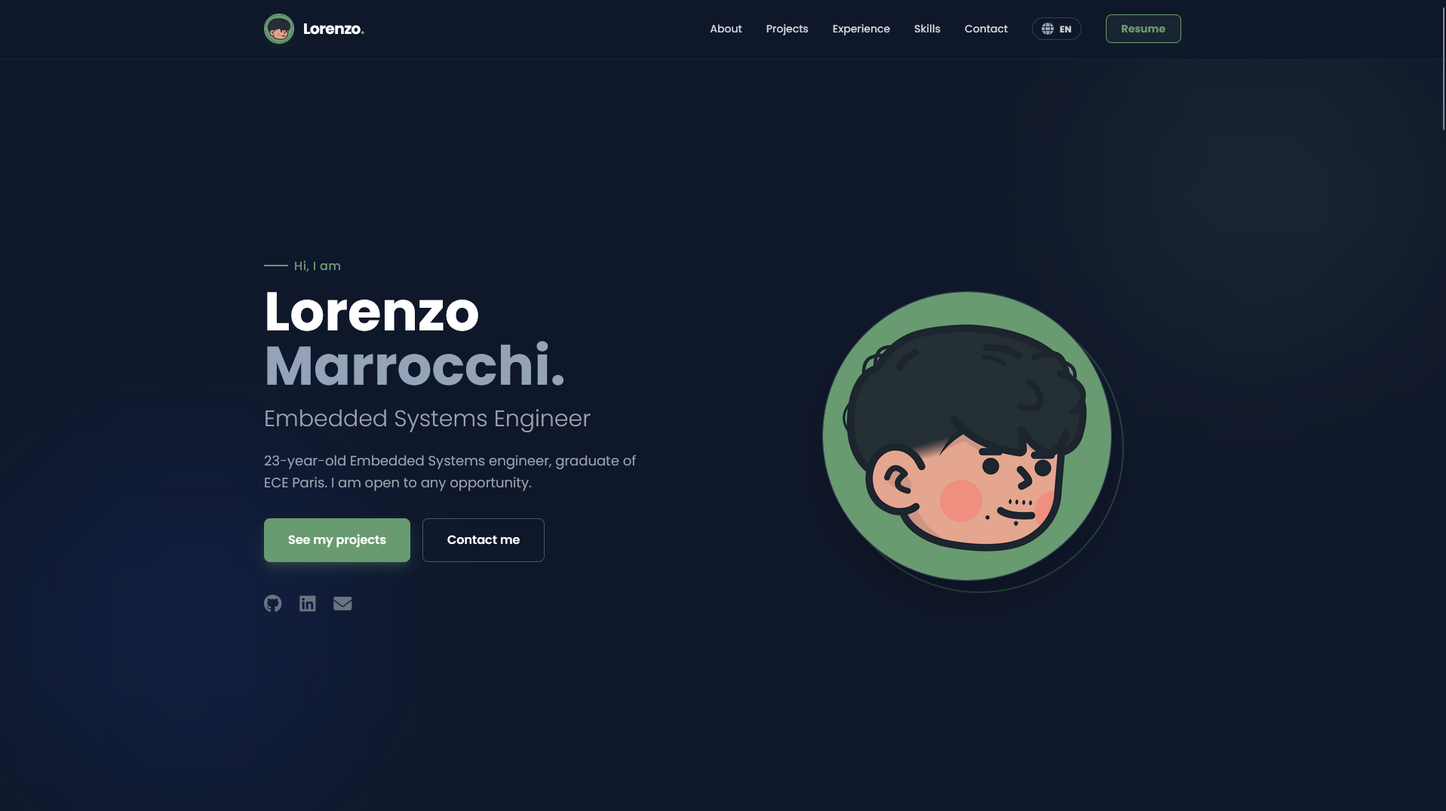
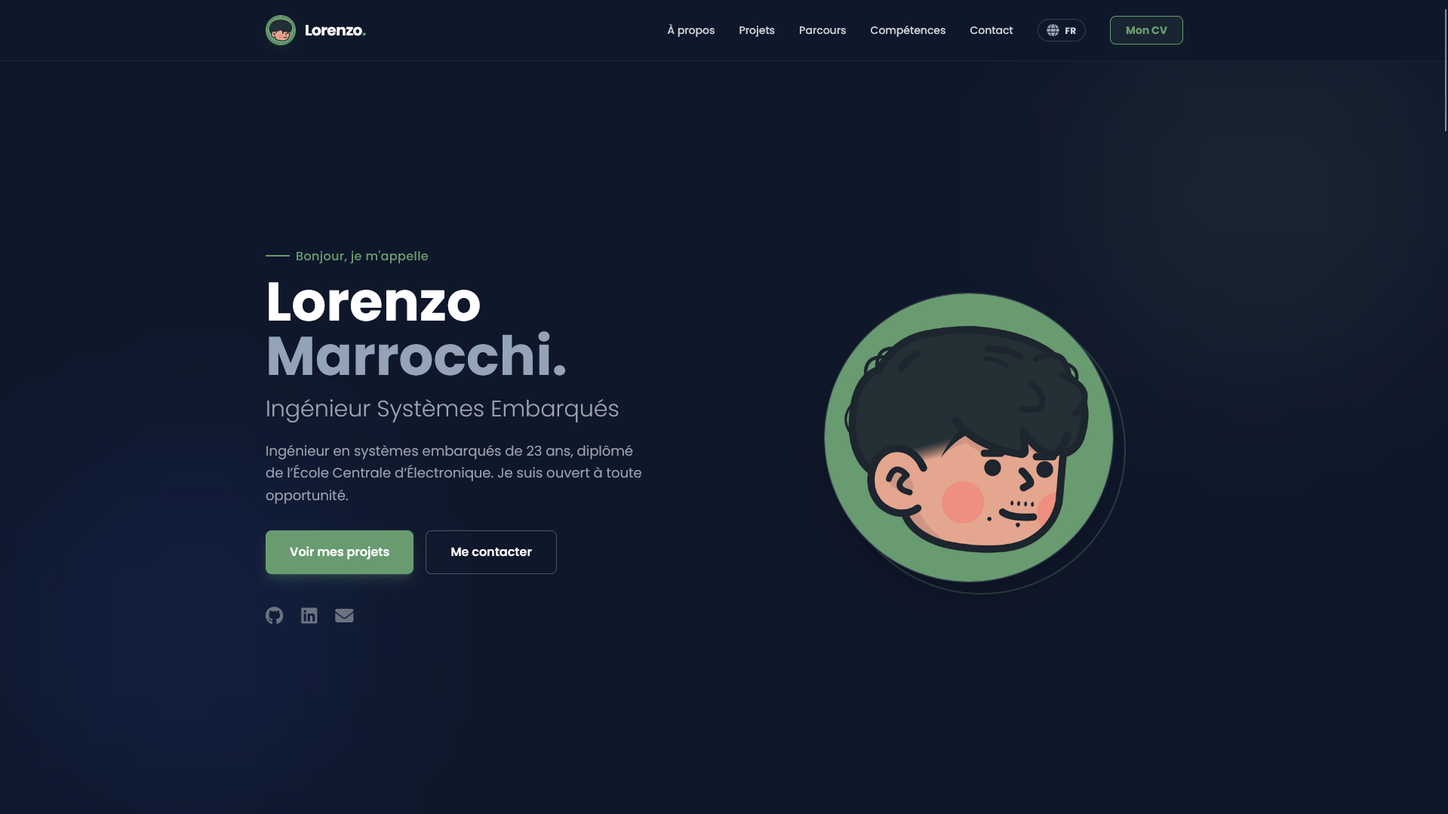
projects_update

diff --git a/index.html b/index.html
@@ -270,7 +270,7 @@
                         Ingénieur Systèmes Embarqués
                     </h2>
                     <p class="text-gray-400 max-w-lg mb-8 leading-relaxed text-lg" data-i18n="hero_desc">
-                        Ingénieur en systèmes embarqués de 23 ans, diplômé de l’École Centrale d’Électronique. Je suis ouvert à toute opportunité.
+                        Ingénieur en systèmes embarqués de 23 ans, diplômé de l’École Centrale d’Électronique à Paris. Je suis ouvert à toute opportunité.
                     </p>
                     
                     <div class="flex flex-wrap gap-4">
@@ -323,11 +323,12 @@
                         <div class="absolute inset-0 flex items-center justify-center">
                             <i class="fas fa-water text-5xl text-gray-600 group-hover:text-primary transition-colors"></i>
                         </div>
-                        <img src="./assets/projects/Bluexplorer.png" class="absolute inset-0 w-full h-full object-cover opacity-90 group-hover:scale-110 transition-transform duration-500" onerror="this.style.display='none'">
+                        <img src="./assets/projects/bluexplorer_cover.png" class="absolute inset-0 w-full h-full object-cover opacity-90 group-hover:scale-110 transition-transform duration-500" onerror="this.style.display='none'">
                     </div>
                     <div class="p-8 flex-grow flex flex-col">
                         <div class="flex justify-between items-start mb-4">
                             <h3 class="text-xl font-bold text-white group-hover:text-primary transition-colors">Bluexplorer</h3>
+                            <span class="text-xs border border-primary text-primary px-2 py-1 rounded">PFE</span>
                         </div>
                         <p class="text-gray-400 text-sm mb-6 flex-grow leading-relaxed" data-i18n="proj_blue_desc">Prototype de drone sous-marin pour l'exploration. Conception mécanique et électronique.</p>
                         <div class="flex flex-wrap gap-2 mt-auto">
@@ -361,11 +362,12 @@
 
                 <!-- Project: Robot Arm -->
                 <div class="project-card bg-card rounded-2xl overflow-hidden border border-gray-700 group flex flex-col relative">
-                    <a href="#" class="project-link-overlay"></a> 
+                    <a href="https://github.com/MrZouu/LeRobot-HandControl" target="_blank" class="project-link-overlay"></a>
                     <div class="h-56 relative overflow-hidden bg-slate-800">
-                         <div class="absolute inset-0 flex items-center justify-center">
-                            <i class="fas fa-robot text-5xl text-gray-600 group-hover:text-primary transition-colors"></i>
+                        <div class="absolute inset-0 flex items-center justify-center">
+                             <i class="fas fa-sign-language text-5xl text-gray-600 group-hover:text-primary transition-colors"></i>
                         </div>
+                        <img src="./assets/projects/hand_top.png" class="absolute inset-0 w-full h-full object-cover opacity-90 group-hover:scale-110 transition-transform duration-500" onerror="this.style.display='none'">
                     </div>
                     <div class="p-8 flex-grow flex flex-col">
                         <div class="flex justify-between items-start mb-4">
@@ -385,8 +387,9 @@
                     <a href="https://github.com/MrZouu/Radio-Transmitter" target="_blank" class="project-link-overlay"></a>
                     <div class="h-56 relative overflow-hidden bg-slate-800">
                         <div class="absolute inset-0 flex items-center justify-center">
-                            <i class="fas fa-broadcast-tower text-5xl text-gray-600 group-hover:text-primary transition-colors"></i>
+                             <i class="fas fa-sign-language text-5xl text-gray-600 group-hover:text-primary transition-colors"></i>
                         </div>
+                        <img src="./assets/projects/radiotransmitter_illustration.png" class="absolute inset-0 w-full h-full object-cover opacity-90 group-hover:scale-110 transition-transform duration-500" onerror="this.style.display='none'">
                     </div>
                     <div class="p-8 flex-grow flex flex-col">
                         <div class="flex justify-between items-start mb-4">
@@ -434,7 +437,7 @@
                             <h3 class="text-xl font-bold text-white group-hover:text-primary transition-colors">Game of Life</h3>
                             <i class="fab fa-github text-xl text-gray-400 hover:text-white transition-colors relative z-30"></i>
                         </div>
-                        <p class="text-gray-400 text-sm mb-6 flex-grow leading-relaxed" data-i18n="proj_life_desc">Implémentation du jeu de la vie de Conway.</p>
+                        <p class="text-gray-400 text-sm mb-6 flex-grow leading-relaxed" data-i18n="proj_life_desc">Implémentation du Game Of Life de Conway.</p>
                         <div class="flex flex-wrap gap-2 mt-auto">
                             <span class="px-3 py-1 bg-dark rounded text-xs text-primary font-mono border border-gray-700">C</span>
                         </div>
@@ -488,15 +491,16 @@
                     <a href="https://github.com/MrZouu/Portfolio" target="_blank" class="project-link-overlay"></a>
                     <div class="h-56 relative overflow-hidden bg-slate-800">
                         <div class="absolute inset-0 flex items-center justify-center">
-                            <i class="fas fa-laptop-code text-5xl text-gray-600 group-hover:text-primary transition-colors"></i>
+                             <i class="fas fa-sign-language text-5xl text-gray-600 group-hover:text-primary transition-colors"></i>
                         </div>
+                        <img src="./assets/homepage.png" class="absolute inset-0 w-full h-full object-cover opacity-90 group-hover:scale-110 transition-transform duration-500" onerror="this.style.display='none'">
                     </div>
                     <div class="p-8 flex-grow flex flex-col">
                         <div class="flex justify-between items-start mb-4">
                             <h3 class="text-xl font-bold text-white group-hover:text-primary transition-colors">Portfolio</h3>
                             <i class="fab fa-github text-xl text-gray-400 hover:text-white transition-colors relative z-30"></i>
                         </div>
-                        <p class="text-gray-400 text-sm mb-6 flex-grow leading-relaxed" data-i18n="proj_web_desc">Ce site web personnel.</p>
+                        <p class="text-gray-400 text-sm mb-6 flex-grow leading-relaxed" data-i18n="proj_web_desc">Ce site web.</p>
                         <div class="flex flex-wrap gap-2 mt-auto">
                             <span class="px-3 py-1 bg-dark rounded text-xs text-primary font-mono border border-gray-700">HTML</span>
                             <span class="px-3 py-1 bg-dark rounded text-xs text-primary font-mono border border-gray-700">CSS</span>
@@ -543,8 +547,8 @@
                             <p class="text-gray-400 text-sm mb-4 leading-relaxed" data-i18n="job1_desc">Stage de fin d'études : Développement d'interfaces IHM pour équipements GSE. Couplage d'hexapodes et rétro-ingénierie.</p>
                             <div class="tags-container flex flex-wrap gap-2 mt-auto">
                                 <span class="px-2 py-1 bg-dark rounded text-xs text-muted font-mono">LabVIEW</span>
-                                <span class="px-2 py-1 bg-dark rounded text-xs text-muted font-mono">IHM Aérospatiale</span>
-                                <span class="px-2 py-1 bg-dark rounded text-xs text-muted font-mono">Python</span>
+                                <span class="px-2 py-1 bg-dark rounded text-xs text-muted font-mono">IHM</span>
+                                <span class="px-2 py-1 bg-dark rounded text-xs text-muted font-mono">C</span>
                             </div>
                         </div>
                     </div>
@@ -693,19 +697,27 @@
                 <!-- CONTENT: Embedded -->
                 <div id="embedded" class="tab-content active grid-cols-3 md:grid-cols-4 gap-4 md:gap-8 text-center">
                     <div class="p-2 md:p-4 hover:bg-dark/50 rounded-xl transition-colors group">
-                        <i class="devicon-labview-plain text-4xl md:text-6xl text-yellow-500 mb-2 md:mb-4 block group-hover:scale-110 transition-transform"></i>
+                        <div class="h-12 w-12 md:h-16 md:w-16 mx-auto mb-2 md:mb-4 flex items-center justify-center">
+                            <img src="./assets/skills/labview-original.png" class="max-h-full max-w-full group-hover:scale-110 transition-transform duration-300" alt="LabVIEW" onerror="this.src='./assets/skills/labview.png'">
+                        </div>
                         <span class="text-xs md:text-base font-medium text-gray-200">LabVIEW</span>
                     </div>
                     <div class="p-2 md:p-4 hover:bg-dark/50 rounded-xl transition-colors group">
-                        <i class="devicon-c-plain text-4xl md:text-6xl text-blue-500 mb-2 md:mb-4 block group-hover:scale-110 transition-transform"></i>
-                        <span class="text-xs md:text-base font-medium text-gray-200">C / C++</span>
+                        <div class="h-12 w-12 md:h-16 md:w-16 mx-auto mb-2 md:mb-4 flex items-center justify-center">
+                            <img src="./assets/skills/C.svg" class="max-h-full max-w-full group-hover:scale-110 transition-transform duration-300" alt="C" onerror="this.src='./assets/skills/C.svg'">
+                        </div>
+                        <span class="text-xs md:text-base font-medium text-gray-200">C/C++</span>
                     </div>
                     <div class="p-2 md:p-4 hover:bg-dark/50 rounded-xl transition-colors group">
-                        <i class="devicon-arduino-plain text-4xl md:text-6xl text-teal-500 mb-2 md:mb-4 block group-hover:scale-110 transition-transform"></i>
+                        <div class="h-12 w-12 md:h-16 md:w-16 mx-auto mb-2 md:mb-4 flex items-center justify-center">
+                            <img src="./assets/skills/arduino.svg" class="max-h-full max-w-full group-hover:scale-110 transition-transform duration-300" alt="Arduino" onerror="this.src='./assets/skills/arduino.svg'">
+                        </div>
                         <span class="text-xs md:text-base font-medium text-gray-200">Arduino</span>
                     </div>
                     <div class="p-2 md:p-4 hover:bg-dark/50 rounded-xl transition-colors group">
-                        <i class="devicon-raspberrypi-line text-4xl md:text-6xl text-red-500 mb-2 md:mb-4 block group-hover:scale-110 transition-transform"></i>
+                        <div class="h-12 w-12 md:h-16 md:w-16 mx-auto mb-2 md:mb-4 flex items-center justify-center">
+                            <img src="./assets/skills/raspberry-pi.svg" class="max-h-full max-w-full group-hover:scale-110 transition-transform duration-300" alt="Raspberry" onerror="this.src='./assets/skills/raspberry-pi.svg'">
+                        </div>
                         <span class="text-xs md:text-base font-medium text-gray-200">Raspberry Pi</span>
                     </div>
                     <div class="p-2 md:p-4 hover:bg-dark/50 rounded-xl transition-colors group">
@@ -717,7 +729,9 @@
                         <span class="text-xs md:text-base font-medium text-gray-200">Assembly</span>
                     </div>
                     <div class="p-2 md:p-4 hover:bg-dark/50 rounded-xl transition-colors group">
-                        <i class="devicon-linux-plain text-4xl md:text-6xl text-white mb-2 md:mb-4 block group-hover:scale-110 transition-transform"></i>
+                        <div class="h-12 w-12 md:h-16 md:w-16 mx-auto mb-2 md:mb-4 flex items-center justify-center">
+                            <img src="./assets/skills/linux.svg" class="max-h-full max-w-full group-hover:scale-110 transition-transform duration-300" alt="Linux" onerror="this.src='./assets/skills/linux.svg'">
+                        </div>
                         <span class="text-xs md:text-base font-medium text-gray-200">Linux / Unix</span>
                     </div>
                     <div class="p-2 md:p-4 hover:bg-dark/50 rounded-xl transition-colors group">
@@ -729,27 +743,39 @@
                 <!-- CONTENT: Software -->
                 <div id="software" class="tab-content grid-cols-3 md:grid-cols-4 gap-4 md:gap-8 text-center">
                     <div class="p-2 md:p-4 hover:bg-dark/50 rounded-xl transition-colors group">
-                        <i class="devicon-python-plain text-4xl md:text-6xl text-yellow-300 mb-2 md:mb-4 block group-hover:scale-110 transition-transform"></i>
+                        <div class="h-12 w-12 md:h-16 md:w-16 mx-auto mb-2 md:mb-4 flex items-center justify-center">
+                            <img src="./assets/skills/python.svg" class="max-h-full max-w-full group-hover:scale-110 transition-transform duration-300" alt="Python" onerror="this.src='./assets/skills/python.svg'">
+                        </div>
                         <span class="text-xs md:text-base font-medium text-gray-200">Python</span>
                     </div>
                     <div class="p-2 md:p-4 hover:bg-dark/50 rounded-xl transition-colors group">
-                        <i class="devicon-pytorch-original text-4xl md:text-6xl text-orange-500 mb-2 md:mb-4 block group-hover:scale-110 transition-transform"></i>
+                        <div class="h-12 w-12 md:h-16 md:w-16 mx-auto mb-2 md:mb-4 flex items-center justify-center">
+                            <img src="./assets/skills/pytorch.svg" class="max-h-full max-w-full group-hover:scale-110 transition-transform duration-300" alt="Pytorch" onerror="this.src='./assets/skills/pytorch.svg'">
+                        </div>
                         <span class="text-xs md:text-base font-medium text-gray-200">PyTorch</span>
                     </div>
                     <div class="p-2 md:p-4 hover:bg-dark/50 rounded-xl transition-colors group">
-                        <i class="devicon-tensorflow-original text-4xl md:text-6xl text-orange-400 mb-2 md:mb-4 block group-hover:scale-110 transition-transform"></i>
+                        <div class="h-12 w-12 md:h-16 md:w-16 mx-auto mb-2 md:mb-4 flex items-center justify-center">
+                            <img src="./assets/skills/TensorFlow.svg" class="max-h-full max-w-full group-hover:scale-110 transition-transform duration-300" alt="TensorFlow" onerror="this.src='./assets/skills/TensorFlow.svg'">
+                        </div>
                         <span class="text-xs md:text-base font-medium text-gray-200">TensorFlow</span>
                     </div>
                     <div class="p-2 md:p-4 hover:bg-dark/50 rounded-xl transition-colors group">
-                        <i class="devicon-opencv-plain text-4xl md:text-6xl text-green-500 mb-2 md:mb-4 block group-hover:scale-110 transition-transform"></i>
+                        <div class="h-12 w-12 md:h-16 md:w-16 mx-auto mb-2 md:mb-4 flex items-center justify-center">
+                            <img src="./assets/skills/opencv_logo.png" class="max-h-full max-w-full group-hover:scale-110 transition-transform duration-300" alt="OpenCV" onerror="this.src='./assets/skills/opencv_logo.png'">
+                        </div>
                         <span class="text-xs md:text-base font-medium text-gray-200">OpenCV</span>
                     </div>
                     <div class="p-2 md:p-4 hover:bg-dark/50 rounded-xl transition-colors group">
-                        <i class="devicon-html5-plain text-4xl md:text-6xl text-orange-600 mb-2 md:mb-4 block group-hover:scale-110 transition-transform"></i>
+                        <div class="h-12 w-12 md:h-16 md:w-16 mx-auto mb-2 md:mb-4 flex items-center justify-center">
+                            <img src="./assets/skills/Html.svg" class="max-h-full max-w-full group-hover:scale-110 transition-transform duration-300" alt="html" onerror="this.src='./assets/skills/Html.svg'">
+                        </div>
                         <span class="text-xs md:text-base font-medium text-gray-200">HTML5</span>
                     </div>
                     <div class="p-2 md:p-4 hover:bg-dark/50 rounded-xl transition-colors group">
-                        <i class="devicon-css3-plain text-4xl md:text-6xl text-blue-600 mb-2 md:mb-4 block group-hover:scale-110 transition-transform"></i>
+                        <div class="h-12 w-12 md:h-16 md:w-16 mx-auto mb-2 md:mb-4 flex items-center justify-center">
+                            <img src="./assets/skills/css.svg" class="max-h-full max-w-full group-hover:scale-110 transition-transform duration-300" alt="css" onerror="this.src='./assets/skills/css.svg'">
+                        </div>
                         <span class="text-xs md:text-base font-medium text-gray-200">CSS3</span>
                     </div>
                     <div class="p-2 md:p-4 hover:bg-dark/50 rounded-xl transition-colors group">
@@ -761,27 +787,39 @@
                 <!-- CONTENT: Tools -->
                 <div id="tools" class="tab-content grid-cols-3 md:grid-cols-4 gap-4 md:gap-8 text-center">
                     <div class="p-2 md:p-4 hover:bg-dark/50 rounded-xl transition-colors group">
-                        <i class="devicon-git-plain text-4xl md:text-6xl text-red-500 mb-2 md:mb-4 block group-hover:scale-110 transition-transform"></i>
+                        <div class="h-12 w-12 md:h-16 md:w-16 mx-auto mb-2 md:mb-4 flex items-center justify-center">
+                            <img src="./assets/skills/git.svg" class="max-h-full max-w-full group-hover:scale-110 transition-transform duration-300" alt="git" onerror="this.src='./assets/skills/git.svg'">
+                        </div>
                         <span class="text-xs md:text-base font-medium text-gray-200">Git</span>
                     </div>
                     <div class="p-2 md:p-4 hover:bg-dark/50 rounded-xl transition-colors group">
-                        <i class="devicon-vscode-plain text-4xl md:text-6xl text-blue-400 mb-2 md:mb-4 block group-hover:scale-110 transition-transform"></i>
+                        <div class="h-12 w-12 md:h-16 md:w-16 mx-auto mb-2 md:mb-4 flex items-center justify-center">
+                            <img src="./assets/skills/vscode.png" class="max-h-full max-w-full group-hover:scale-110 transition-transform duration-300" alt="vscode" onerror="this.src='./assets/skills/vscode.png'">
+                        </div>
                         <span class="text-xs md:text-base font-medium text-gray-200">VS Code</span>
                     </div>
                     <div class="p-2 md:p-4 hover:bg-dark/50 rounded-xl transition-colors group">
-                        <i class="devicon-jira-plain text-4xl md:text-6xl text-blue-500 mb-2 md:mb-4 block group-hover:scale-110 transition-transform"></i>
+                        <div class="h-12 w-12 md:h-16 md:w-16 mx-auto mb-2 md:mb-4 flex items-center justify-center">
+                            <img src="./assets/skills/jira.png" class="max-h-full max-w-full group-hover:scale-110 transition-transform duration-300" alt="jira" onerror="this.src='./assets/skills/jira.png'">
+                        </div>
                         <span class="text-xs md:text-base font-medium text-gray-200">Jira</span>
                     </div>
                     <div class="p-2 md:p-4 hover:bg-dark/50 rounded-xl transition-colors group">
-                        <i class="devicon-anaconda-original text-4xl md:text-6xl text-green-500 mb-2 md:mb-4 block group-hover:scale-110 transition-transform"></i>
+                        <div class="h-12 w-12 md:h-16 md:w-16 mx-auto mb-2 md:mb-4 flex items-center justify-center">
+                            <img src="./assets/skills/Anaconda.svg" class="max-h-full max-w-full group-hover:scale-110 transition-transform duration-300" alt="Anaconda" onerror="this.src='./assets/skills/Anaconda.svg'">
+                        </div>
                         <span class="text-xs md:text-base font-medium text-gray-200">Anaconda</span>
                     </div>
                     <div class="p-2 md:p-4 hover:bg-dark/50 rounded-xl transition-colors group">
-                        <i class="devicon-illustrator-plain text-4xl md:text-6xl text-orange-600 mb-2 md:mb-4 block group-hover:scale-110 transition-transform"></i>
+                        <div class="h-12 w-12 md:h-16 md:w-16 mx-auto mb-2 md:mb-4 flex items-center justify-center">
+                            <img src="./assets/skills/Illustrator.svg" class="max-h-full max-w-full group-hover:scale-110 transition-transform duration-300" alt="Illustrator" onerror="this.src='./assets/skills/Illustrator.svg'">
+                        </div>
                         <span class="text-xs md:text-base font-medium text-gray-200">Illustrator</span>
                     </div>
                     <div class="p-2 md:p-4 hover:bg-dark/50 rounded-xl transition-colors group">
-                        <i class="devicon-aftereffects-plain text-4xl md:text-6xl text-purple-700 mb-2 md:mb-4 block group-hover:scale-110 transition-transform"></i>
+                        <div class="h-12 w-12 md:h-16 md:w-16 mx-auto mb-2 md:mb-4 flex items-center justify-center">
+                            <img src="./assets/skills/After_effects.svg" class="max-h-full max-w-full group-hover:scale-110 transition-transform duration-300" alt="After_effects" onerror="this.src='./assets/skills/After_effects.svg'">
+                        </div>
                         <span class="text-xs md:text-base font-medium text-gray-200">After Effects</span>
                     </div>
                 </div>
@@ -817,12 +855,12 @@
             <p class="text-primary font-mono mb-4 tracking-wider" data-i18n="contact_subtitle">Quelle est la suite ?</p>
             <h2 class="text-4xl md:text-5xl font-bold text-white mb-8" data-i18n="contact_title">Me Contacter</h2>
             <p class="text-gray-400 text-lg mb-12 leading-relaxed" data-i18n="contact_text">
-                Je suis à la recherche d'opportunités (CDI/CDD) à partir de Décembre 2025.
-                Que ce soit pour une question ou juste pour dire bonjour, n'hésitez pas !
+                Je suis à la recherche de nouvelles opportunités à partir de décembre 2025. 
+                N’hésitez pas à me contacter si mon profil vous intéresse ou si vous souhaitez en savoir plus !
             </p>
             
             <a href="mailto:lorenzomarrocchi02@gmail.com" class="inline-block px-10 py-5 bg-transparent border-2 border-primary text-primary rounded hover:bg-primary hover:text-white transition-all font-bold text-lg hover:-translate-y-1" data-i18n="btn_say_hello">
-                Dire Bonjour
+                Contact
             </a>
 
             <!-- Social Icons -->
@@ -876,7 +914,7 @@
         // --- TRANSLATION DATA ---
         const cvLinks = {
             fr: "./assets/CV_Lorenzo_MARROCCHI.pdf",
-            en: "./assets/RESUME_Lorenzo_MARROCCHI_Internship_2025.pdf"
+            en: "./assets/RESUME_Lorenzo_MARROCCHI.pdf"
         };
 
         const translations = {
@@ -884,7 +922,7 @@
                 nav_about: "À propos", nav_skills: "Compétences", nav_exp: "Parcours", nav_projects: "Projets", nav_contact: "Contact", nav_resume: "Mon CV",
                 hero_greeting: "Bonjour, je m'appelle",
                 hero_role: "Ingénieur Systèmes Embarqués",
-                hero_desc: "Ingénieur en systèmes embarqués de 23 ans, diplômé de l’École Centrale d’Électronique. Je suis ouvert à toute opportunité.",
+                hero_desc: "Ingénieur en systèmes embarqués de 23 ans, diplômé de l’École Centrale d’Électronique à Paris. Je suis ouvert à toute opportunité.",
                 btn_projects: "Voir mes projets", btn_contact: "Me contacter",
                 title_skills: "Mes Compétences",
                 tab_embedded: "Systèmes Embarqués", tab_software: "Software & IA", tab_tools: "Outils", tab_languages: "Langues",
@@ -908,17 +946,17 @@
                 proj_life_desc: "Implémentation du jeu de la vie de Conway.",
                 proj_air_desc: "Simulation 2D de contrôle aérien.",
                 proj_space_desc: "Jeu classique Space Invaders utilisant Pygame.",
-                proj_web_desc: "Ce site web personnel.",
+                proj_web_desc: "Ce site web.",
                 contact_subtitle: "Quelle est la suite ?", contact_title: "Me Contacter",
-                contact_text: "Je suis à la recherche d'opportunités (CDI/CDD) à partir de Décembre 2025. Que ce soit pour une question ou juste pour dire bonjour, n'hésitez pas !",
-                btn_say_hello: "Dire Bonjour",
+                contact_text: "Je suis à la recherche de nouvelles opportunités à partir de décembre 2025. N’hésitez pas à me contacter si mon profil vous intéresse ou si vous souhaitez en savoir plus !",
+                btn_say_hello: "Contact",
                 badge_current: "ACTUEL"
             },
             en: {
                 nav_about: "About", nav_skills: "Skills", nav_exp: "Experience", nav_projects: "Projects", nav_contact: "Contact", nav_resume: "Resume",
                 hero_greeting: "Hi, I am",
                 hero_role: "Embedded Systems Engineer",
-                hero_desc: "23-year-old Embedded Systems Engineer, graduated from the École Centrale d’Électronique. I am open to any opportunity.",
+                hero_desc: "23-year-old Embedded Systems Engineer, graduated from the École Centrale d’Électronique in Paris. I am open to any opportunity.",
                 btn_projects: "See my projects", btn_contact: "Contact me",
                 title_skills: "My Skills",
                 tab_embedded: "Embedded Systems", tab_software: "Software & AI", tab_tools: "Tools", tab_languages: "Languages",
@@ -944,8 +982,8 @@
                 proj_space_desc: "Classic Space Invaders game using Pygame.",
                 proj_web_desc: "This personal website.",
                 contact_subtitle: "What's Next?", contact_title: "Get In Touch",
-                contact_text: "I am currently looking for opportunities (Permanent/Fixed-term) starting December 2025. Whether you have a question or just want to say hi, feel free!",
-                btn_say_hello: "Say Hello",
+                contact_text: "I am looking for new opportunities starting December 2025. Feel free to reach out if my profile interests you or if you would like to know more !",
+                btn_say_hello: "Contact",
                 badge_current: "CURRENT"
             }
         };
